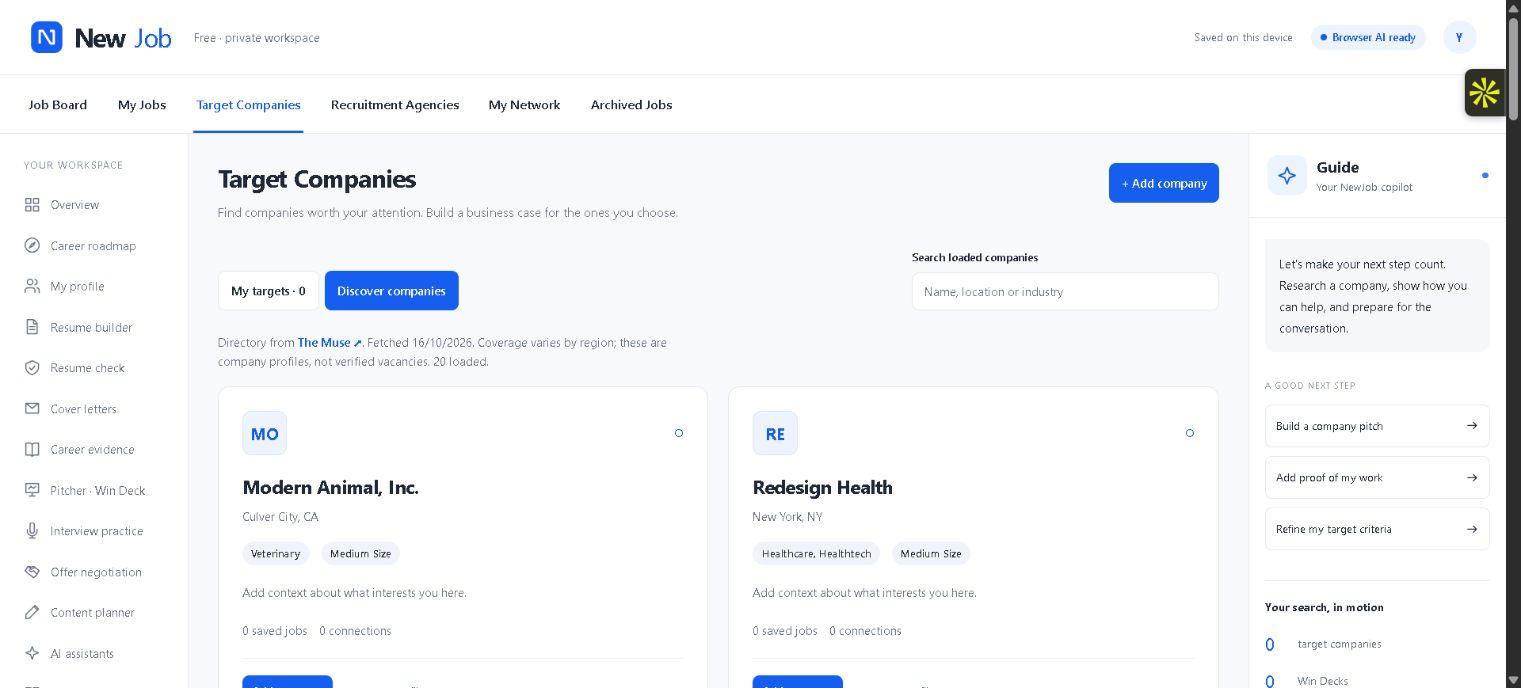
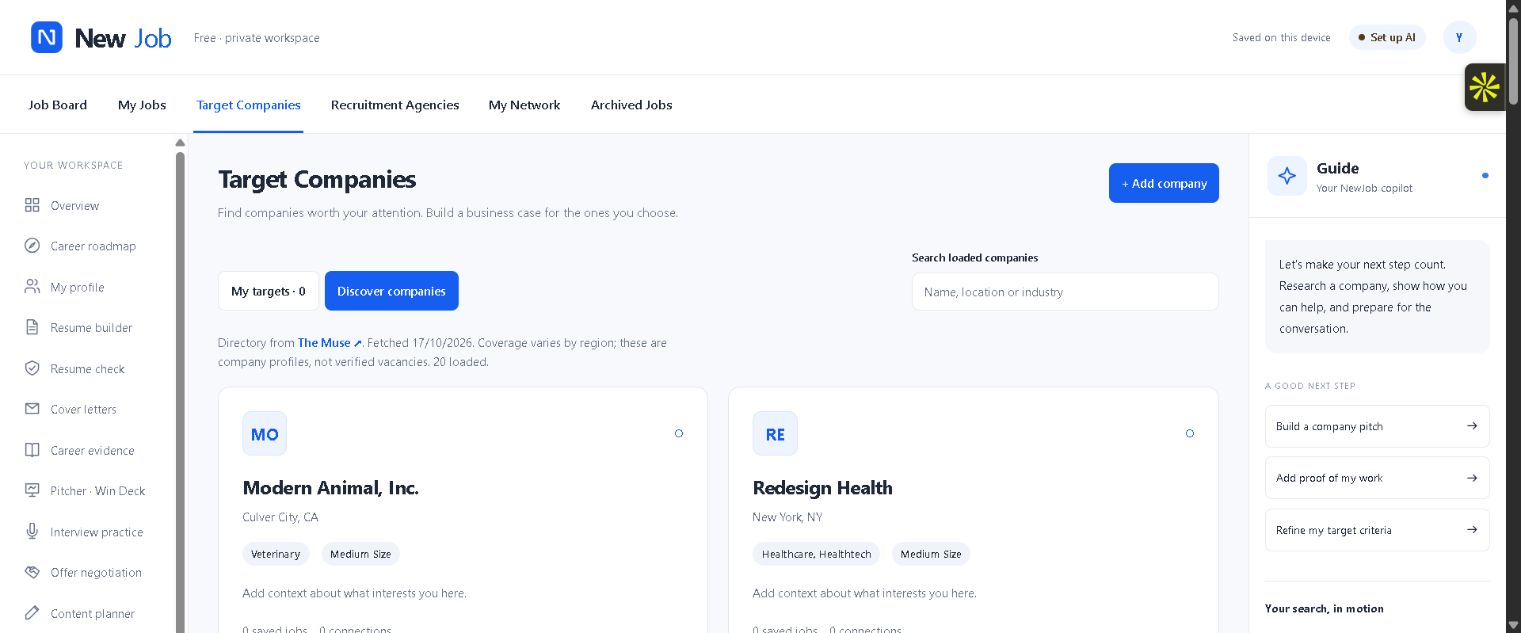
Record live AI verification and publish release documentation

diff --git a/docs/VERIFICATION.md b/docs/VERIFICATION.md
@@ -11,7 +11,8 @@ The expanded release adds company discovery/research, problem hypotheses, career
 - The browser downloaded PowerPoint and HTML exports. The downloaded PowerPoint was opened as a ZIP and verified to contain six slides and editable text. A page reload retained the saved deck.
 - Negotiation lesson feedback, annual/first-year/equity separation, counteroffer percentage and all four practice rounds with wording feedback worked with fictional compensation figures. The practice report downloaded successfully.
 - Six expanded routes (negotiation, Pitcher, companies, stories, roadmaps and posts) were checked at a 390 × 844 viewport with no horizontal page overflow. Desktop and mobile controls remained usable.
-- Browser AI downloaded and loaded Qwen2.5 1.5B, then completed a short streamed copilot response. Initial generation was slow on the test computer. Longer structured research failed during verification; the release now preserves detailed runtime errors and provides immediate worker cancellation/reload recovery. See the current limitations below; do not interpret a loaded model as proof that every AI workflow succeeds on every GPU.
+- Browser AI downloaded and loaded Qwen2.5 1.5B, then completed a short streamed copilot response. Initial structured requests exposed a WebLLM grammar-matcher initialization error. The release removes that failing mode, requests JSON in the prompt and validates the returned object. A live post-generation request then completed and saved an editable draft from the supplied fictional story. Stopping a subsequent request immediately restored usable controls and displayed the model-reload instruction while retaining the saved draft.
+- Browser generation was slow on the test computer. The post-generation and cancellation checks passed after the fix; longer AI research/deck tasks were not individually rerun end to end after that shared runtime change. Source collection, manual hypotheses, editable deck creation/export and negotiation without AI were verified separately. Small-model outputs still need review.
 
 Production: [newjob-career.netlify.app](https://newjob-career.netlify.app). [GitHub CI](https://github.com/Pratikrishi97/newjob/actions/workflows/ci.yml) is authoritative for the latest commit. Personal browser records are not part of the repository or deployment.
 

diff --git a/CHANGELOG.md b/CHANGELOG.md
@@ -1,6 +1,6 @@
 # Changelog
 
-## 1.1.0 — 2026-10-16
+## 1.1.0 — 2026-10-17
 
 - Trial-inspired blue layout, company cards, opportunity tabs and copilot panel.
 - Company discovery, source research, grounded problem hypotheses and Win Deck workflows.
@@ -9,6 +9,8 @@
 - Career roadmap and editable professional post planner.
 - Browser storage and WebGPU AI, plus Netlify public-data functions.
 - Expanded storage, grounding, privacy-boundary and export checks.
+- Published the free Netlify edition and verified 33 automated checks.
+- Fixed browser structured generation, retained meaningful runtime errors, and made cancellation recover without losing saved drafts.
 
 ## 1.0.0 — 2026-10-15
 
